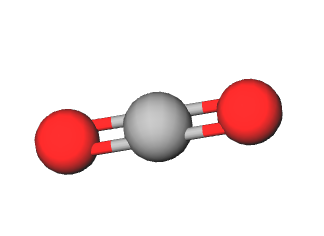
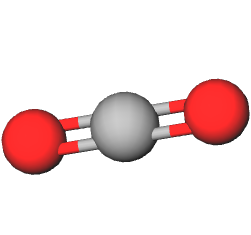
点群のページに写真を添付するなど

Changed region(s): [[0.4183, 0.3277, 1.0, 0.7149], [0.0, 0.417, 0.4183, 0.7447], [0.4183, 0.6553, 0.4741, 0.6851]]

diff --git a/point-group/src/views/NMirrordQ.vue b/point-group/src/views/NMirrordQ.vue
@@ -1,0 +1,40 @@
+<template>
+<div>
+  <div class="qanda">
+    <QuestionCard v-bind:mainQuestion="this.question"></QuestionCard>
+    <AnswerButton
+      v-bind:yes="this.yesLink"
+      v-bind:no="this.noLink"
+    />
+  </div>
+</div>
+</template>
+
+<script>
+import QuestionCard from "../components/QuestionCard.vue"
+import AnswerButton from "../components/AnswerButton.vue"
+
+export default {
+  components: {
+    QuestionCard,
+    AnswerButton
+  },
+  data(){
+    return{
+      question: "nが最大になるn回回転軸(Cn)を主軸とする。主軸を含んでおり、主軸に直交する軸2つがなす角を2等分する鏡映面が存在しますか?",
+      yesLink: "/DihedralDiagonal",
+      noLink: "/SimpleDihedral"
+    }
+  }
+}
+</script>
+
+<style scoped>
+.qanda {
+  width: 75%;
+  margin-left: auto;
+  margin-right: auto;
+  padding-top: 64px;
+  padding-bottom: 64px;
+}
+</style>

diff --git a/point-group/src/router/index.js b/point-group/src/router/index.js
@@ -29,6 +29,7 @@ import SimpleInversion from "../views/SimpleInversion.vue"
 import CyclicOne from "../views/CyclicOne.vue"
 import YesMirrorhQ from "../views/YesMirrorhQ.vue"
 import DihedralN from "../views/DihedralN.vue"
+import NMirrordQ from "../views/NMirrordQ.vue"
 
 Vue.use(VueRouter)
 
@@ -178,6 +179,11 @@ const routes = [
     name: 'CyclicOne',
     component: CyclicOne
   },
+  {
+    path: '/NMirrordQ',
+    name: 'NMirrordQ',
+    component: NMirrordQ
+  }
 ]
 
 const router = new VueRouter({

diff --git a/point-group/src/views/CyclicLiner.vue b/point-group/src/views/CyclicLiner.vue
@@ -1,5 +1,21 @@
 <template>
 <div>
-    <h1>C∞v</h1>
+    <AnswerPage :molecule="PhotoUrl" :pointGroup="AnswerName"></AnswerPage>
 </div>
 </template>
+
+<script>
+import AnswerPage from '../components/AnswerPage.vue'
+
+export default {
+    components:{
+        AnswerPage
+    },
+    data() {
+        return{
+            PhotoUrl: require('../assets/C∞v.png'),
+            AnswerName: 'C∞v'
+        }
+    }
+}
+</script>

diff --git a/point-group/src/views/CyclicHorizontal.vue b/point-group/src/views/CyclicHorizontal.vue
@@ -1,5 +1,21 @@
 <template>
 <div>
-    <h1>Cnh</h1>
+    <AnswerPage :molecule="PhotoUrl" :pointGroup="AnswerName"></AnswerPage>
 </div>
 </template>
+
+<script>
+import AnswerPage from '../components/AnswerPage.vue'
+
+export default {
+    components:{
+        AnswerPage
+    },
+    data() {
+        return{
+            PhotoUrl: require('../assets/C2h.png'),
+            AnswerName: 'Cnh'
+        }
+    }
+}
+</script>

diff --git a/point-group/src/views/CyclicVertical.vue b/point-group/src/views/CyclicVertical.vue
@@ -1,5 +1,21 @@
 <template>
 <div>
-    <h1>Cnv</h1>
+    <AnswerPage :molecule="PhotoUrl" :pointGroup="AnswerName"></AnswerPage>
 </div>
 </template>
+
+<script>
+import AnswerPage from '../components/AnswerPage.vue'
+
+export default {
+    components:{
+        AnswerPage
+    },
+    data() {
+        return{
+            PhotoUrl: require('../assets/C3v.png'),
+            AnswerName: 'C3v'
+        }
+    }
+}
+</script>

diff --git a/point-group/src/views/DihedralDiagonal.vue b/point-group/src/views/DihedralDiagonal.vue
@@ -1,5 +1,21 @@
 <template>
 <div>
-    <h1>Dnd</h1>
+    <AnswerPage :molecule="PhotoUrl" :pointGroup="AnswerName"></AnswerPage>
 </div>
 </template>
+
+<script>
+import AnswerPage from '../components/AnswerPage.vue'
+
+export default {
+    components:{
+        AnswerPage
+    },
+    data() {
+        return{
+            PhotoUrl: require('../assets/D3d.png'),
+            AnswerName: 'Dnd'
+        }
+    }
+}
+</script>

diff --git a/point-group/src/views/DihedralN.vue b/point-group/src/views/DihedralN.vue
@@ -1,5 +1,21 @@
 <template>
 <div>
-    <h1>Dnh</h1>
+    <AnswerPage :molecule="PhotoUrl" :pointGroup="AnswerName"></AnswerPage>
 </div>
 </template>
+
+<script>
+import AnswerPage from '../components/AnswerPage.vue'
+
+export default {
+    components:{
+        AnswerPage
+    },
+    data() {
+        return{
+            PhotoUrl: require('../assets/D3h.png'),
+            AnswerName: 'Dnh'
+        }
+    }
+}
+</script>

diff --git a/point-group/src/views/SimpleSpiegel.vue b/point-group/src/views/SimpleSpiegel.vue
@@ -1,5 +1,21 @@
 <template>
 <div>
-    <h1>S2n</h1>
+    <AnswerPage :molecule="PhotoUrl" :pointGroup="AnswerName"></AnswerPage>
 </div>
 </template>
+
+<script>
+import AnswerPage from '../components/AnswerPage.vue'
+
+export default {
+    components:{
+        AnswerPage
+    },
+    data() {
+        return{
+            PhotoUrl: require('../assets/S4.png'),
+            AnswerName: 'S2n'
+        }
+    }
+}
+</script>

diff --git a/point-group/src/components/AnswerPage.vue b/point-group/src/components/AnswerPage.vue
@@ -26,8 +26,9 @@ export default {
     text-align: center;
 }
 
+
 .home {
-  height: 32px;
+    height: 32px;
   line-height: 32px;
   display: block;
   background-color: #54BAB9;
@@ -37,5 +38,13 @@ export default {
   margin: 0 auto;
   border-radius: 6px;
   text-decoration: none;
+}
+
+@media screen and (max-width: 599px){
+    img {
+        width:80%;
+        max-width: 80%;
+        height: auto;
+    }
 }
 </style>

diff --git a/point-group/src/views/CsSpiegel.vue b/point-group/src/views/CsSpiegel.vue
@@ -1,5 +1,21 @@
 <template>
 <div>
-    <h1>Cs</h1>
+    <AnswerPage :molecule="PhotoUrl" :pointGroup="AnswerName"></AnswerPage>
 </div>
 </template>
+
+<script>
+import AnswerPage from '../components/AnswerPage.vue'
+
+export default {
+    components:{
+        AnswerPage
+    },
+    data() {
+        return{
+            PhotoUrl: require('../assets/Cs.png'),
+            AnswerName: 'Cs'
+        }
+    }
+}
+</script>

diff --git a/point-group/src/views/CyclicOne.vue b/point-group/src/views/CyclicOne.vue
@@ -1,5 +1,21 @@
 <template>
 <div>
-    <h1>C1</h1>
+    <AnswerPage :molecule="PhotoUrl" :pointGroup="AnswerName"></AnswerPage>
 </div>
 </template>
+
+<script>
+import AnswerPage from '../components/AnswerPage.vue'
+
+export default {
+    components:{
+        AnswerPage
+    },
+    data() {
+        return{
+            PhotoUrl: require('../assets/C1.png'),
+            AnswerName: 'C1'
+        }
+    }
+}
+</script>

diff --git a/point-group/src/views/InversionHorizon.vue b/point-group/src/views/InversionHorizon.vue
@@ -1,5 +1,21 @@
 <template>
 <div>
-    <h1>Ih</h1>
+    <AnswerPage :molecule="PhotoUrl" :pointGroup="AnswerName"></AnswerPage>
 </div>
 </template>
+
+<script>
+import AnswerPage from '../components/AnswerPage.vue'
+
+export default {
+    components:{
+        AnswerPage
+    },
+    data() {
+        return{
+            PhotoUrl: require('../assets/Ih.png'),
+            AnswerName: 'Ih'
+        }
+    }
+}
+</script>
